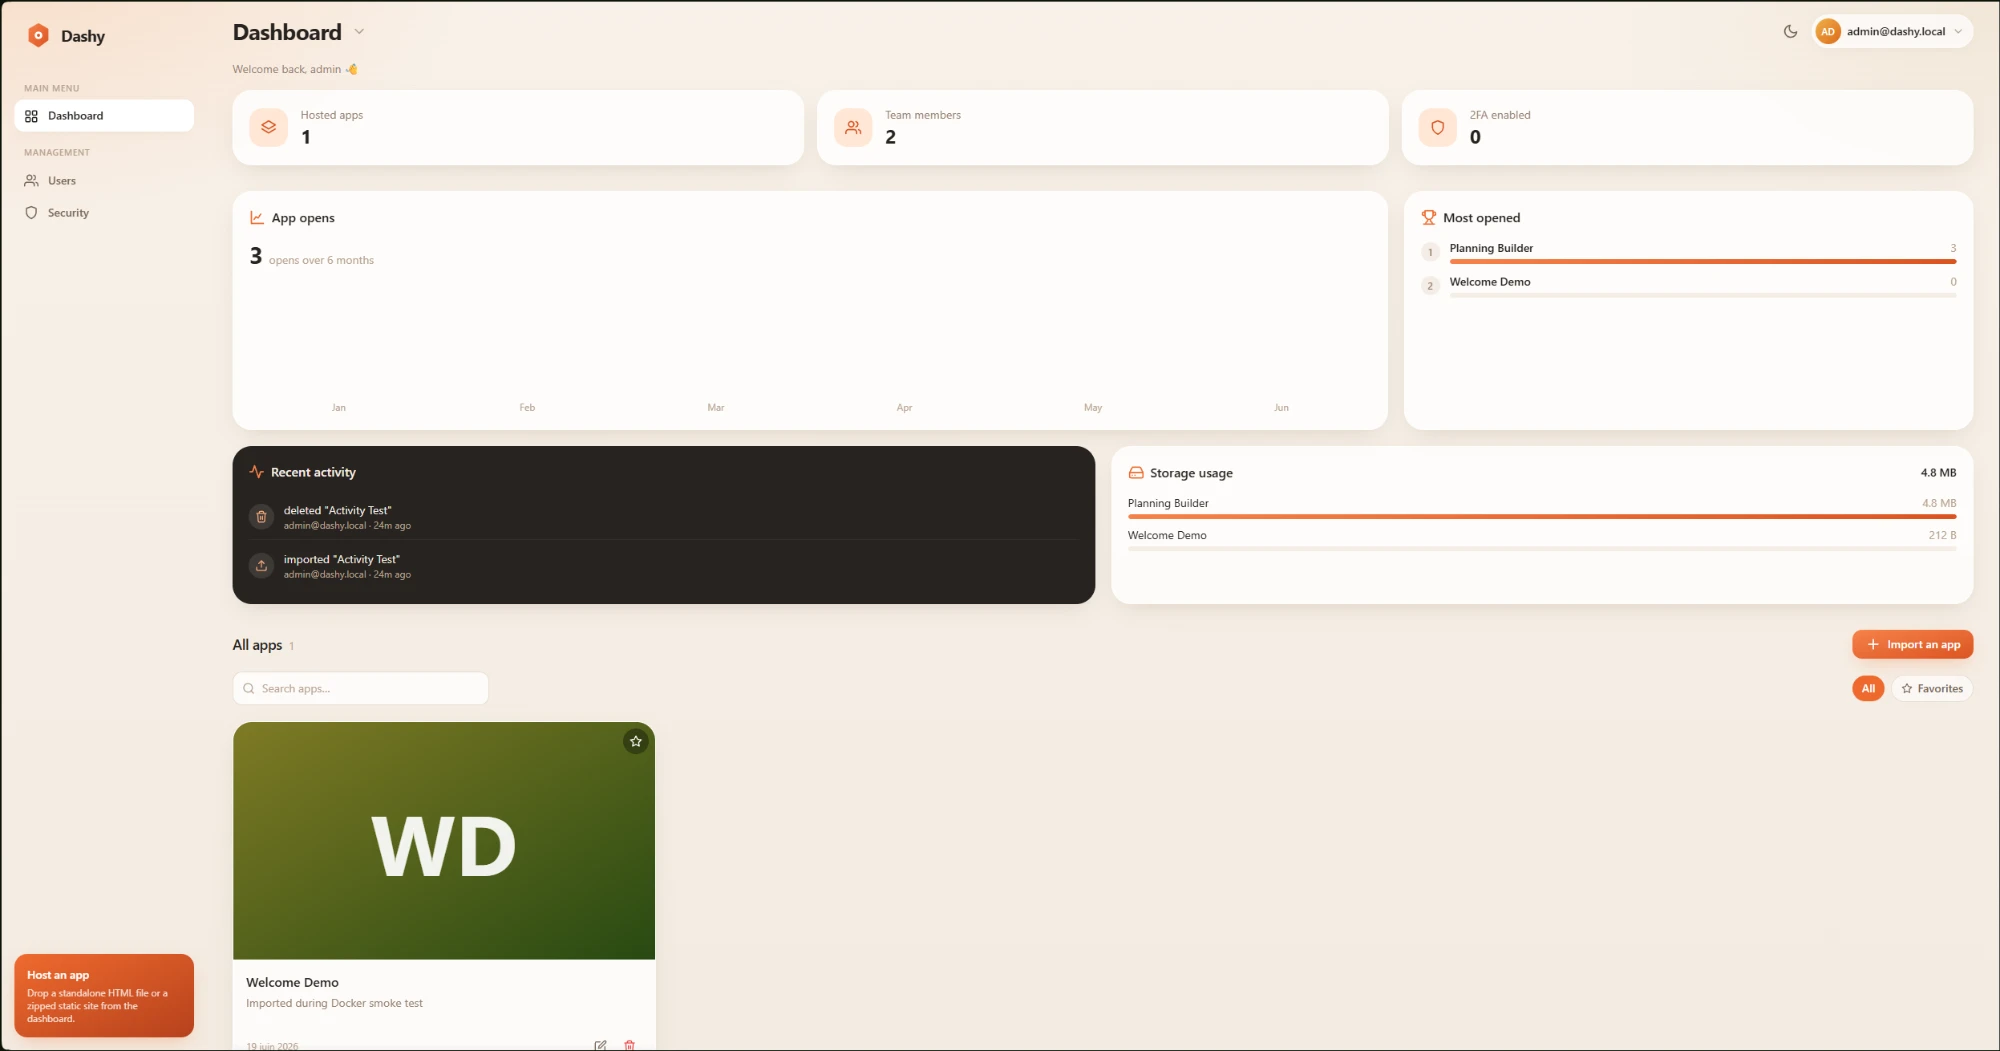
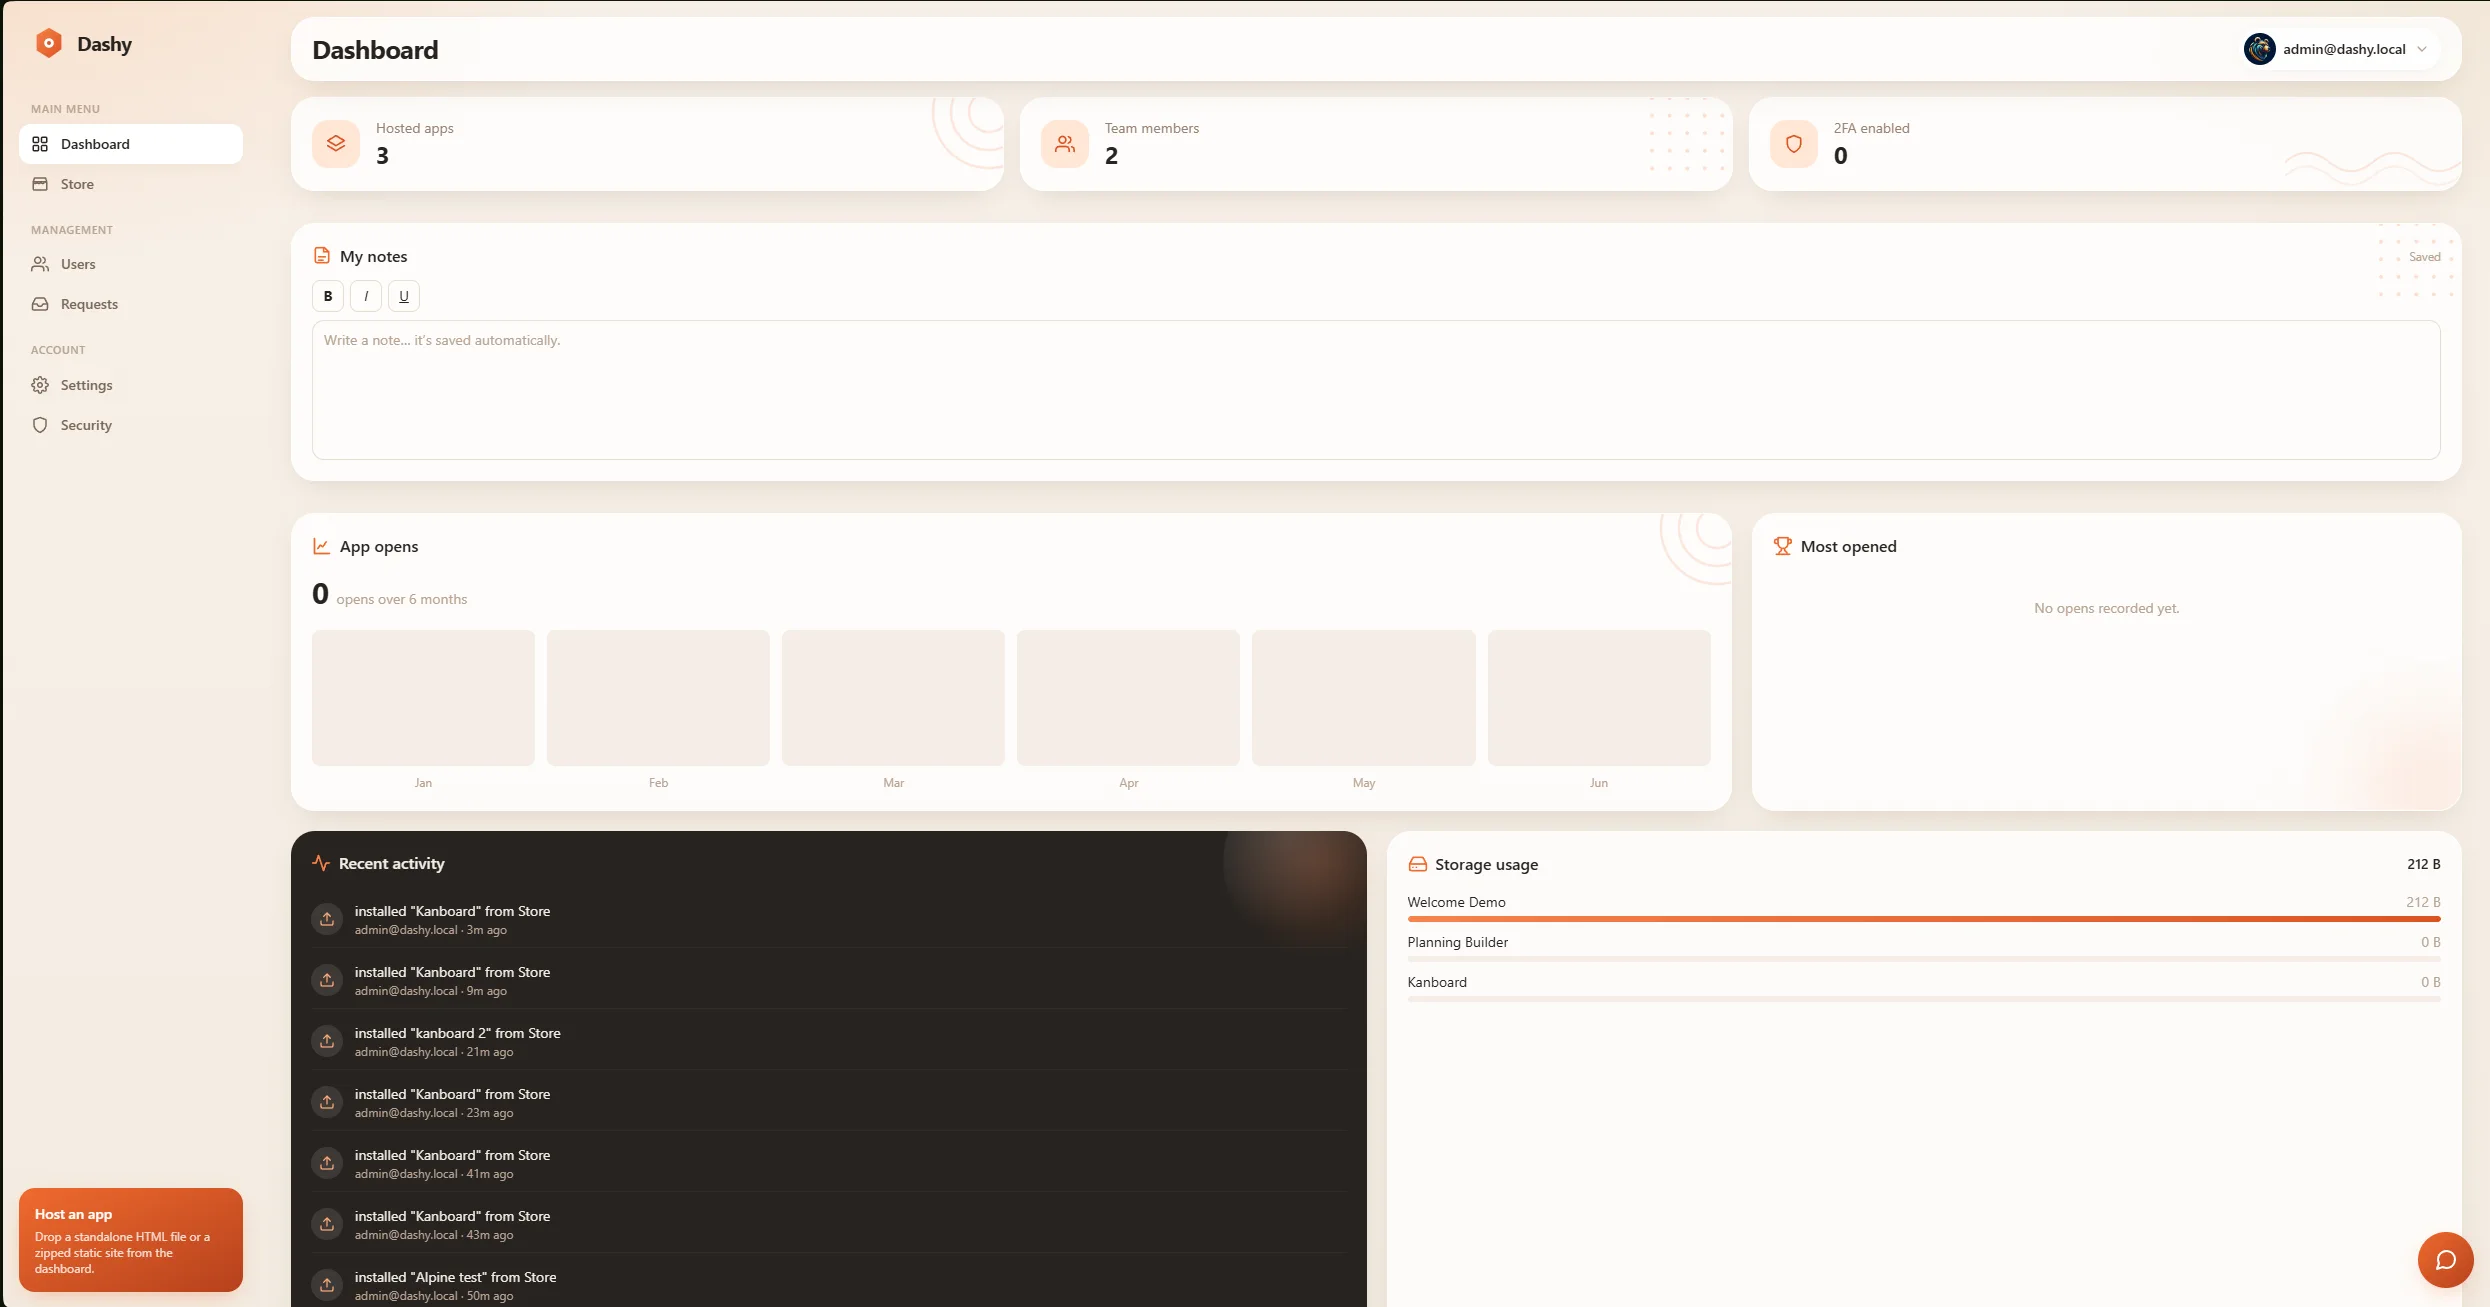
README: refresh Store feature summary + new dashboard screenshot
Update the Store bullet to cover the current capabilities (managed
catalogues edited in-UI, upload-from-computer static apps, deploy from
pasted compose / GitHub repo / Docker Hub image, persistent volumes,
redeploy/restart, uninstall cleanup) and the project-structure routes/
models lines. Replace the screenshot with the current dashboard UI.

diff --git a/README.md b/README.md
@@ -25,7 +25,7 @@ No SaaS, no paid services — everything runs on a single machine.
 - 🔗 **Public share links** (admin) — share a hosted app via an unguessable `/share/<token>/` link, with an optional password and expiry, to people without a Dashy account.
 - 📊 **Rich dashboard** (admin) — usage tracking (per-app open counts), an opens-over-time chart, a "most opened" leaderboard, a recent-activity feed, and on-disk storage usage per app.
 - ⭐ **Organize** — tag apps with a category, filter by category, star favorites, and search the grid.
-- 🛍️ **Store** (admin) — a one-click app catalogue. Add decentralised catalogue **sources** (a local JSON file, a remote URL like raw GitHub, or a **Dashy-managed catalogue you edit from the UI** — add/edit/remove apps with no JSON to hand-write); apps are described by a standalone JSON **manifest** validated on ingestion. Three install types: **`tile`** (a card linking to a URL), **`static`** (downloads a zip/file, served at `/store-apps/<id>/` or on a dedicated subdomain) and **`deploy`** (shows the `docker-compose` preview, then deploys via a runtime-detected driver — **Coolify**, **Portainer**, direct **Docker**, or a universal **manual** copy/paste — and generates a tile). Driver tokens are encrypted backend-only and never read from a manifest.
+- 🛍️ **Store** (admin) — a one-click app catalogue. Add catalogue **sources** (a local JSON file, a remote URL like raw GitHub, or a **Dashy-managed catalogue you edit entirely from the UI** — add/edit/remove apps, no JSON to hand-write). Apps are standalone JSON **manifests** validated on ingestion, in three install types: **`tile`** (a card linking to a URL), **`static`** (a `.zip`/`.html` **downloaded from a URL or uploaded straight from your computer**, re-hosted at `/store-apps/<id>/` or on a dedicated subdomain, with in-place content updates that bump the catalogue version) and **`deploy`** (a `docker-compose` stack). Deploy apps can be authored by pasting the compose, giving a **GitHub repo URL**, or just a **Docker Hub image** name + port (Dashy generates the compose); they support **persistent named volumes**, editable env, and **Redeploy / Restart**, via a runtime-detected driver — direct **Docker**, **Coolify**, **Portainer**, or a universal **manual** copy/paste. Uninstalling cleans up after itself (stops/removes the container; for managed-catalogue apps it also frees the name and drops the image). Driver tokens are encrypted backend-only and never read from a manifest.
 - 🤖 **AI assistant ("Dashy" bot)** — an optional in-app chatbot that explains how Dashy works and recommends the right app for a user's needs, with one-click links to open them, step-by-step "how do I…" guidance, and replies in the user's own language. Admins choose the provider (**OpenRouter, OpenAI, Deepseek, or Claude**), the model, and enter their API key (encrypted at rest), and enable the assistant per user (on by default for new users). Through the assistant, users can also **request a project** (a shared file/site or just an idea) — admins review them on a dedicated **Requests** page (and at a glance in the Notifications tile) and can **reply back** to the requester's dashboard; users track their own request history. Admins get **more technical answers** than regular users and can ask the assistant to **create a Store catalogue, source or app** — it proposes the action and nothing happens until the admin clicks **Confirm**.
 - 📝 **Personal notes** — a per-user note tile with **bold / italic / underline**, auto-saved server-side so it survives logout and refresh.
 - ⚙️ **Per-user Settings** — profile (nickname, full name, job title, avatar), interface **language**, **theme**, and date/time preferences. Admins see members' profiles in the Users list.
@@ -59,11 +59,12 @@ Dashy/
 ├── server/                 # Express + TypeScript API
 │   ├── src/
 │   │   ├── config/         # env (zod), db, paths
-│   │   ├── models/         # User, HostedApp (Mongoose)
+│   │   ├── models/         # User, HostedApp, Store*, Chat*, … (Mongoose)
 │   │   ├── middleware/     # auth, upload, rate-limit, validation, errors
-│   │   ├── controllers/    # auth + apps logic
-│   │   ├── routes/         # /api/auth, /api/apps, /api/users, /api/stats, /api/chat, /hosted
-│   │   ├── services/       # admin seed
+│   │   ├── controllers/    # auth, apps, store, chat, … logic
+│   │   ├── routes/         # /api/{auth,apps,users,stats,chat,store,notifications,requests}, /hosted, /store-apps
+│   │   ├── store/          # Store: manifests, catalog, install, managed catalogues, deploy drivers
+│   │   ├── services/       # admin seed, app content, chat prompt/provider, activity
 │   │   ├── utils/          # crypto, slug, safe-zip, jwt
 │   │   └── index.ts        # entry point
 │   └── tests/              # smoke + e2e (mongodb-memory-server)